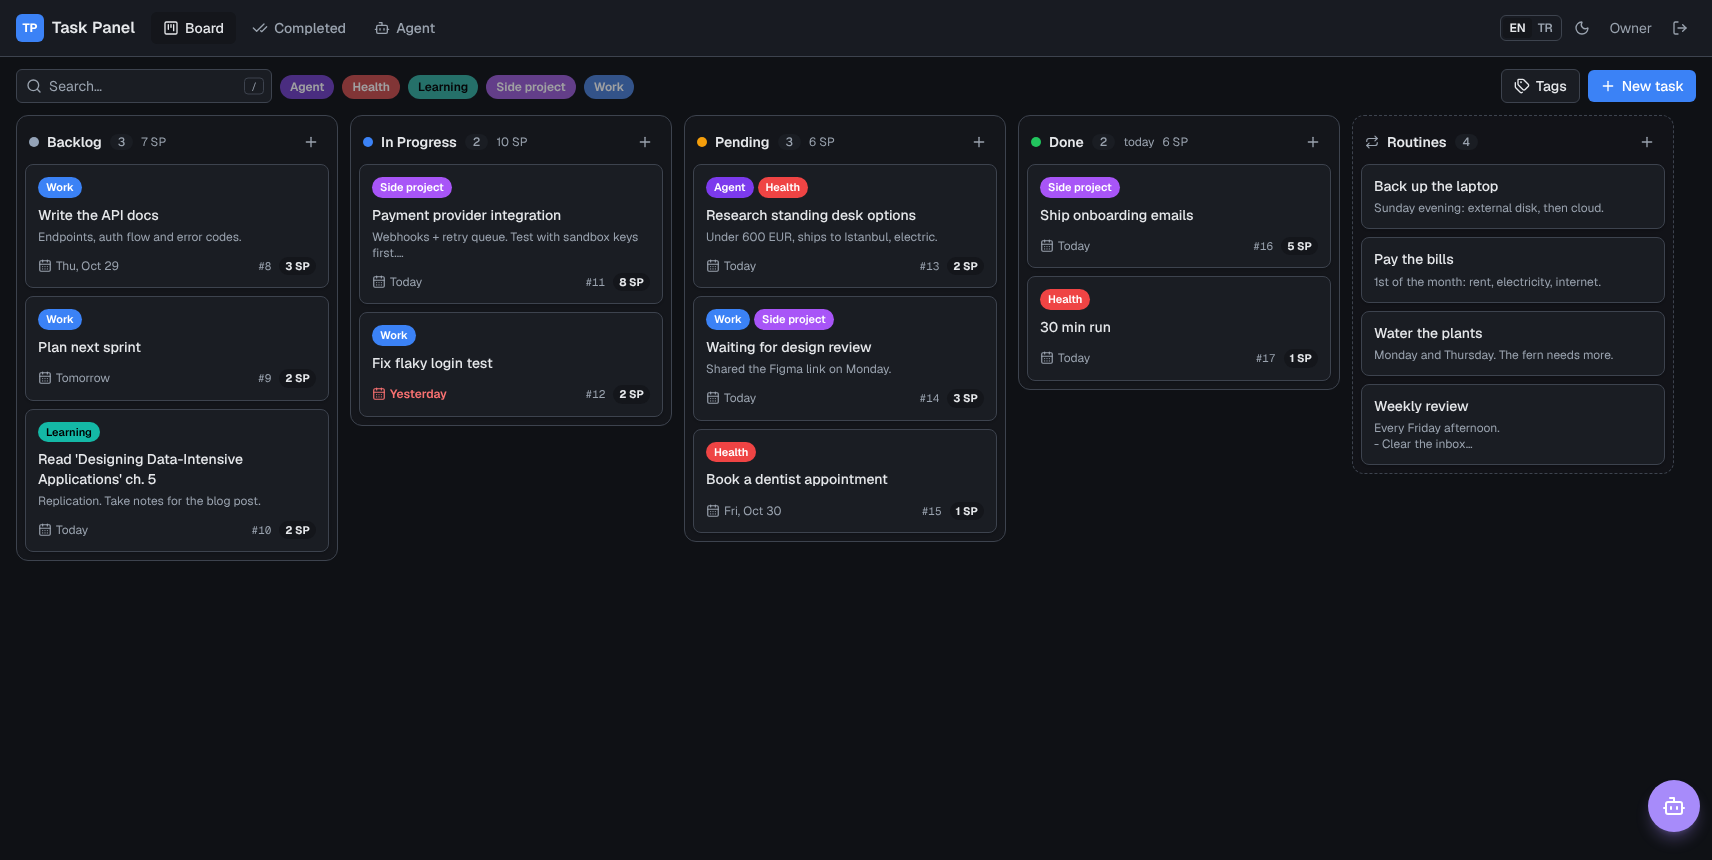
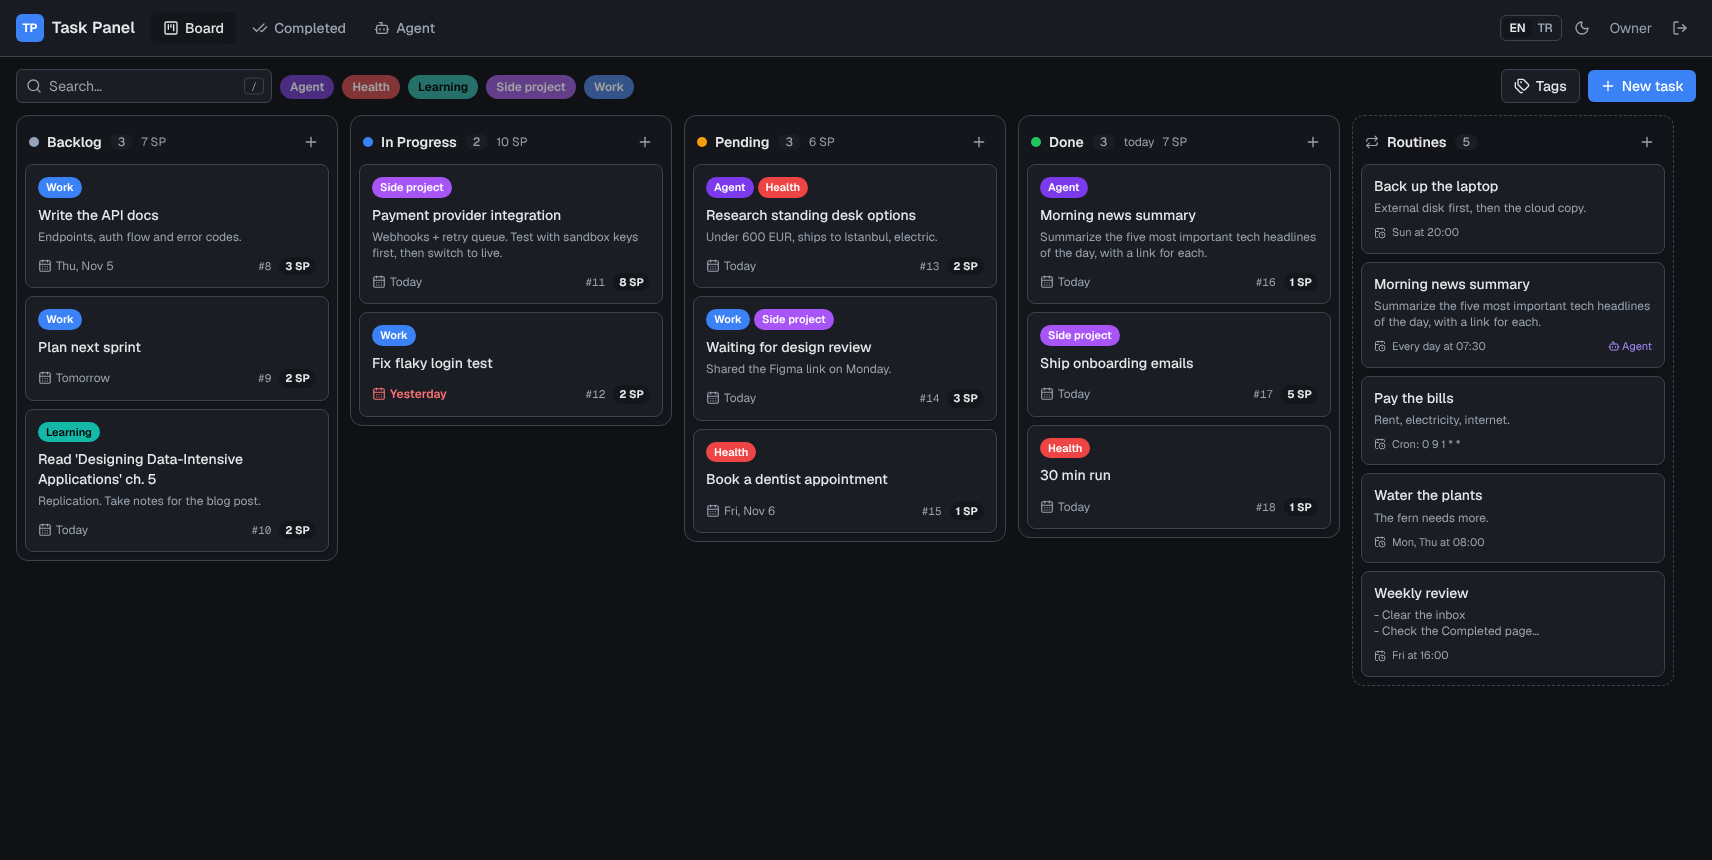
Show scheduled routines in the READMEs
Refresh the board screenshots (light and dark) and the routine dialog so
they show schedules, and add a short Scheduled routines section with the
schedule form, in both languages.

diff --git a/README.tr.md b/README.tr.md
@@ -9,9 +9,9 @@ Kendi sunucuna kurduğun, tek kullanıcılı bir kanban panosu. Kendi renklerinl
 
 ![Pano](docs/screenshots/board-light.png)
 
-| Koyu tema | Task detayı | Tamamlananlar (gün gün) | Bir rutin |
+| Koyu tema | Task detayı | Tamamlananlar (gün gün) | Zamanlanmış bir rutin |
 | --- | --- | --- | --- |
-| ![Koyu temada pano](docs/screenshots/board-dark.png) | ![Task penceresi](docs/screenshots/task-light.png) | ![Tamamlanan tasklar](docs/screenshots/completed-dark.png) | ![Rutin](docs/screenshots/routine-light.png) |
+| ![Koyu temada pano](docs/screenshots/board-dark.png) | ![Task penceresi](docs/screenshots/task-light.png) | ![Tamamlanan tasklar](docs/screenshots/completed-dark.png) | ![Zamanlanmış rutin](docs/screenshots/routine-light.png) |
 
 ## Özellikler
 
@@ -30,6 +30,12 @@ Kendi sunucuna kurduğun, tek kullanıcılı bir kanban panosu. Kendi renklerinl
 - Açık ve koyu tema.
 - Kısayollar: `N` yeni task, `/` arama, `Ctrl+Enter` kaydet, `Esc` kapat.
 - **Tek yönetici hesabı, korumalı kurulum** (aşağıda).
+
+## Zamanlanmış rutinler
+
+Bir rutine zamanlama verirsen zamanı gelince task'ını kendisi oluşturur. Burada her sabah 07:30'da bir haber özeti, doğrudan ajana veriliyor; rutin kartı zamanlamayı, rutinin kendisi de sonraki ve son çalışmayı gösterir.
+
+![Rutin zamanlamasını düzenleme](docs/screenshots/routine-schedule-light.png)
 
 ## Ajan iş başında
 

diff --git a/README.md b/README.md
@@ -9,9 +9,9 @@ A self-hosted, single-user kanban board for your own tasks. Tags with your own c
 
 ![Board](docs/screenshots/board-light.png)
 
-| Dark mode | Task details | Completed, grouped by day | A routine |
+| Dark mode | Task details | Completed, grouped by day | A scheduled routine |
 | --- | --- | --- | --- |
-| ![Board in dark mode](docs/screenshots/board-dark.png) | ![Task dialog](docs/screenshots/task-light.png) | ![Completed tasks](docs/screenshots/completed-dark.png) | ![Routine](docs/screenshots/routine-light.png) |
+| ![Board in dark mode](docs/screenshots/board-dark.png) | ![Task dialog](docs/screenshots/task-light.png) | ![Completed tasks](docs/screenshots/completed-dark.png) | ![Scheduled routine](docs/screenshots/routine-light.png) |
 
 ## Features
 
@@ -30,6 +30,12 @@ A self-hosted, single-user kanban board for your own tasks. Tags with your own c
 - Light and dark mode.
 - Keyboard shortcuts: `N` new task, `/` search, `Ctrl+Enter` save, `Esc` close.
 - **Single admin account, protected setup** (see below).
+
+## Scheduled routines
+
+Give a routine a schedule and it creates its task when it's due. Here a news summary every morning at 07:30, handed straight to the agent; the routine card shows the schedule, and the routine itself the next and last run.
+
+![Editing a routine's schedule](docs/screenshots/routine-schedule-light.png)
 
 ## The agent at work
 
